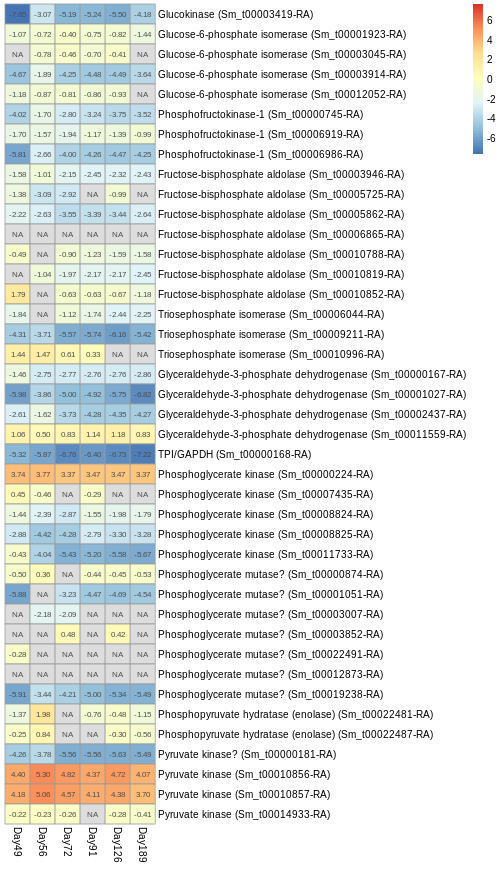
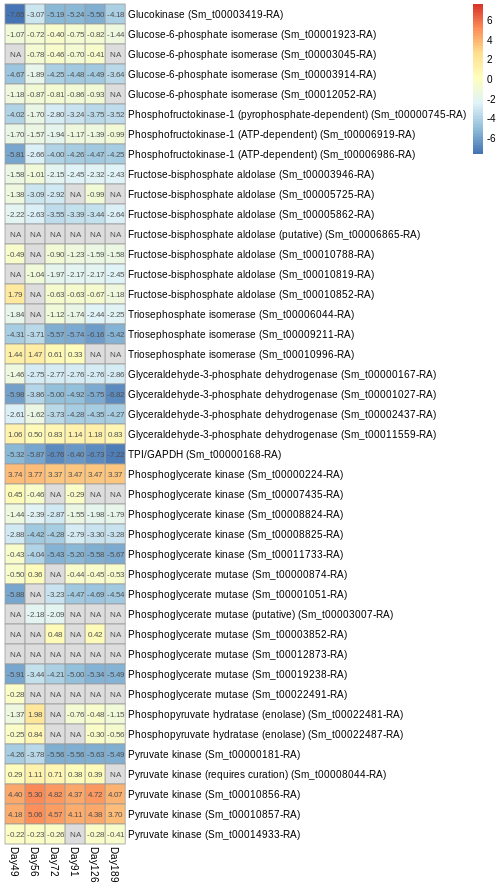
Update glycolysis heatmaps

diff --git a/10_FinalResults/README.md b/10_FinalResults/README.md
@@ -6,6 +6,22 @@ be differentially expressed (see [`04_DiffExp`](../04_DiffExp)),  despite restin
 
 ## Pathways
 
+### Glycolysis
+**Relevance**: Ultimately leads to the production of pyruvate and energy
+
+Need to check that all annotations are correct, but very little seems to be regulated; SOME upregulation at 56d?
+* Where there are multiple copies of a gene, some are upregulated while others are downregulated
+  * How different are their sequences?
+* Re: glyceraldehyde 3-phosphate dehydrogenase:
+  * "In addition to this long established metabolic function, GAPDH has recently been implicated in several non-metabolic processes,
+     including transcription activation, initiation of apoptosis, ER to Golgi vesicle shuttling, and fast axonal, or axoplasmic transport" (Wikipedia)
+
+| R05 | GF04 |
+|-----|------|
+| ![R05_Glycolysis](../08_GenesToLookFor/GeneChecks/Glycolysis/Glycolysis.R05.lfc0.png) | ![GF04_Glycolysis](../08_GenesToLookFor/GeneChecks/Glycolysis/Glycolysis.GF04.lfc0.png) |
+
+
+
 ### Citric Acid Cycle (a.k.a. TCA cycle, Krebs cycle)
 **Relevance:** Energy release from fats, carbohydrates and proteins, and production of NADH and AA precursors
 
@@ -81,24 +97,6 @@ Some genes modestly upregulated, particularly in GF04
 ### Purine synthesis
 **Relevance**: As pyrimidine synthesis may be modestly upregulated, what about purine synthesis?
 
-
-
-### Glycolysis
-**Relevance**: Ultimately leads to the production of pyruvate and energy
-
-Need to check that all annotations are correct, but very little seems to be regulated; SOME upregulation at 56d?
-* Where there are multiple copies of a gene, some are upregulated while others are downregulated
-  * How different are their sequences?
-* Re: glyceraldehyde 3-phosphate dehydrogenase:
-  * "In addition to this long established metabolic function, GAPDH has recently been implicated in several non-metabolic processes,
-     including transcription activation, initiation of apoptosis, ER to Golgi vesicle shuttling, and fast axonal, or axoplasmic transport" (Wikipedia)
-
-
-_Results below are preliminary; some genes may be unaccounted for_
-
-| R05 | GF04 |
-|-----|------|
-| ![R05_Glycolysis_prelim](../08_GenesToLookFor/GeneChecks/Glycolysis/Glycolysis.R05.lfc0.png) | ![GF04_Glycolysis_prelim](../08_GenesToLookFor/GeneChecks/Glycolysis/Glycolysis.GF04.lfc0.png) |
 
 ### Gluconeogenesis
 **Relevance**: Production of hexoses from pyruvate as fuel for storage carbohydrate synthesis
@@ -228,6 +226,25 @@ Mitochondrial genes are either downregulated or NAs...
 ### Plastid
 
 Plastid genes differ in their regulation; what does this mean?
+
+* Thiamine biosynthesis protein upregulated at day 49 in R05
+* Photosystem II protein W upreuglated at day 49 in GF04
+* Heat shock protein 70 very upregulated in most cases (NA in R05 126d)
+  * Stress-related so this seems reasonable
+* Elongation factor Tu upregulated at some GF04 timepoints (R05 shows downregulation)
+* Ribosomal proteins L21, L27, and L34 upregulated at most timepoints in both strains (present in repeat region)
+* Ribosomal protein S14 upregulated at most timepoints in both strains
+  * S18 strongly upregulated in GF04 only
+* Preprotein translocase subunit SecA upregulated in both strains at all timepoints (present in repeat region)
+  * According to Kim et al., 2020, involved in transporting proteins INTO the thylakoid lumen (requires ATP)
+* Cell division protein upregulated in both strains (first three in R05, all in GF04)
+  * From NCBI: "ATP-dependent zinc metalloprotease FtsH family protein similar to Arabidopsis thaliana FTSH 8,
+    part of a complex that functions as an ATP-dependent zinc metallopeptidase, and which is involved in the
+    thylakoid formation and in the removal of damaged D1 in the photosystem II, preventing cell death under
+    high-intensity light conditions."
+* Mg-protoporyphyrin IX chelatase upregulated in both strains
+
+Why are only SOME ribosomal proteins upregulated? Some are also explicitly DOWNregulated (many NAs too)
 
 | R05 | GF04 |
 |-----|------|
